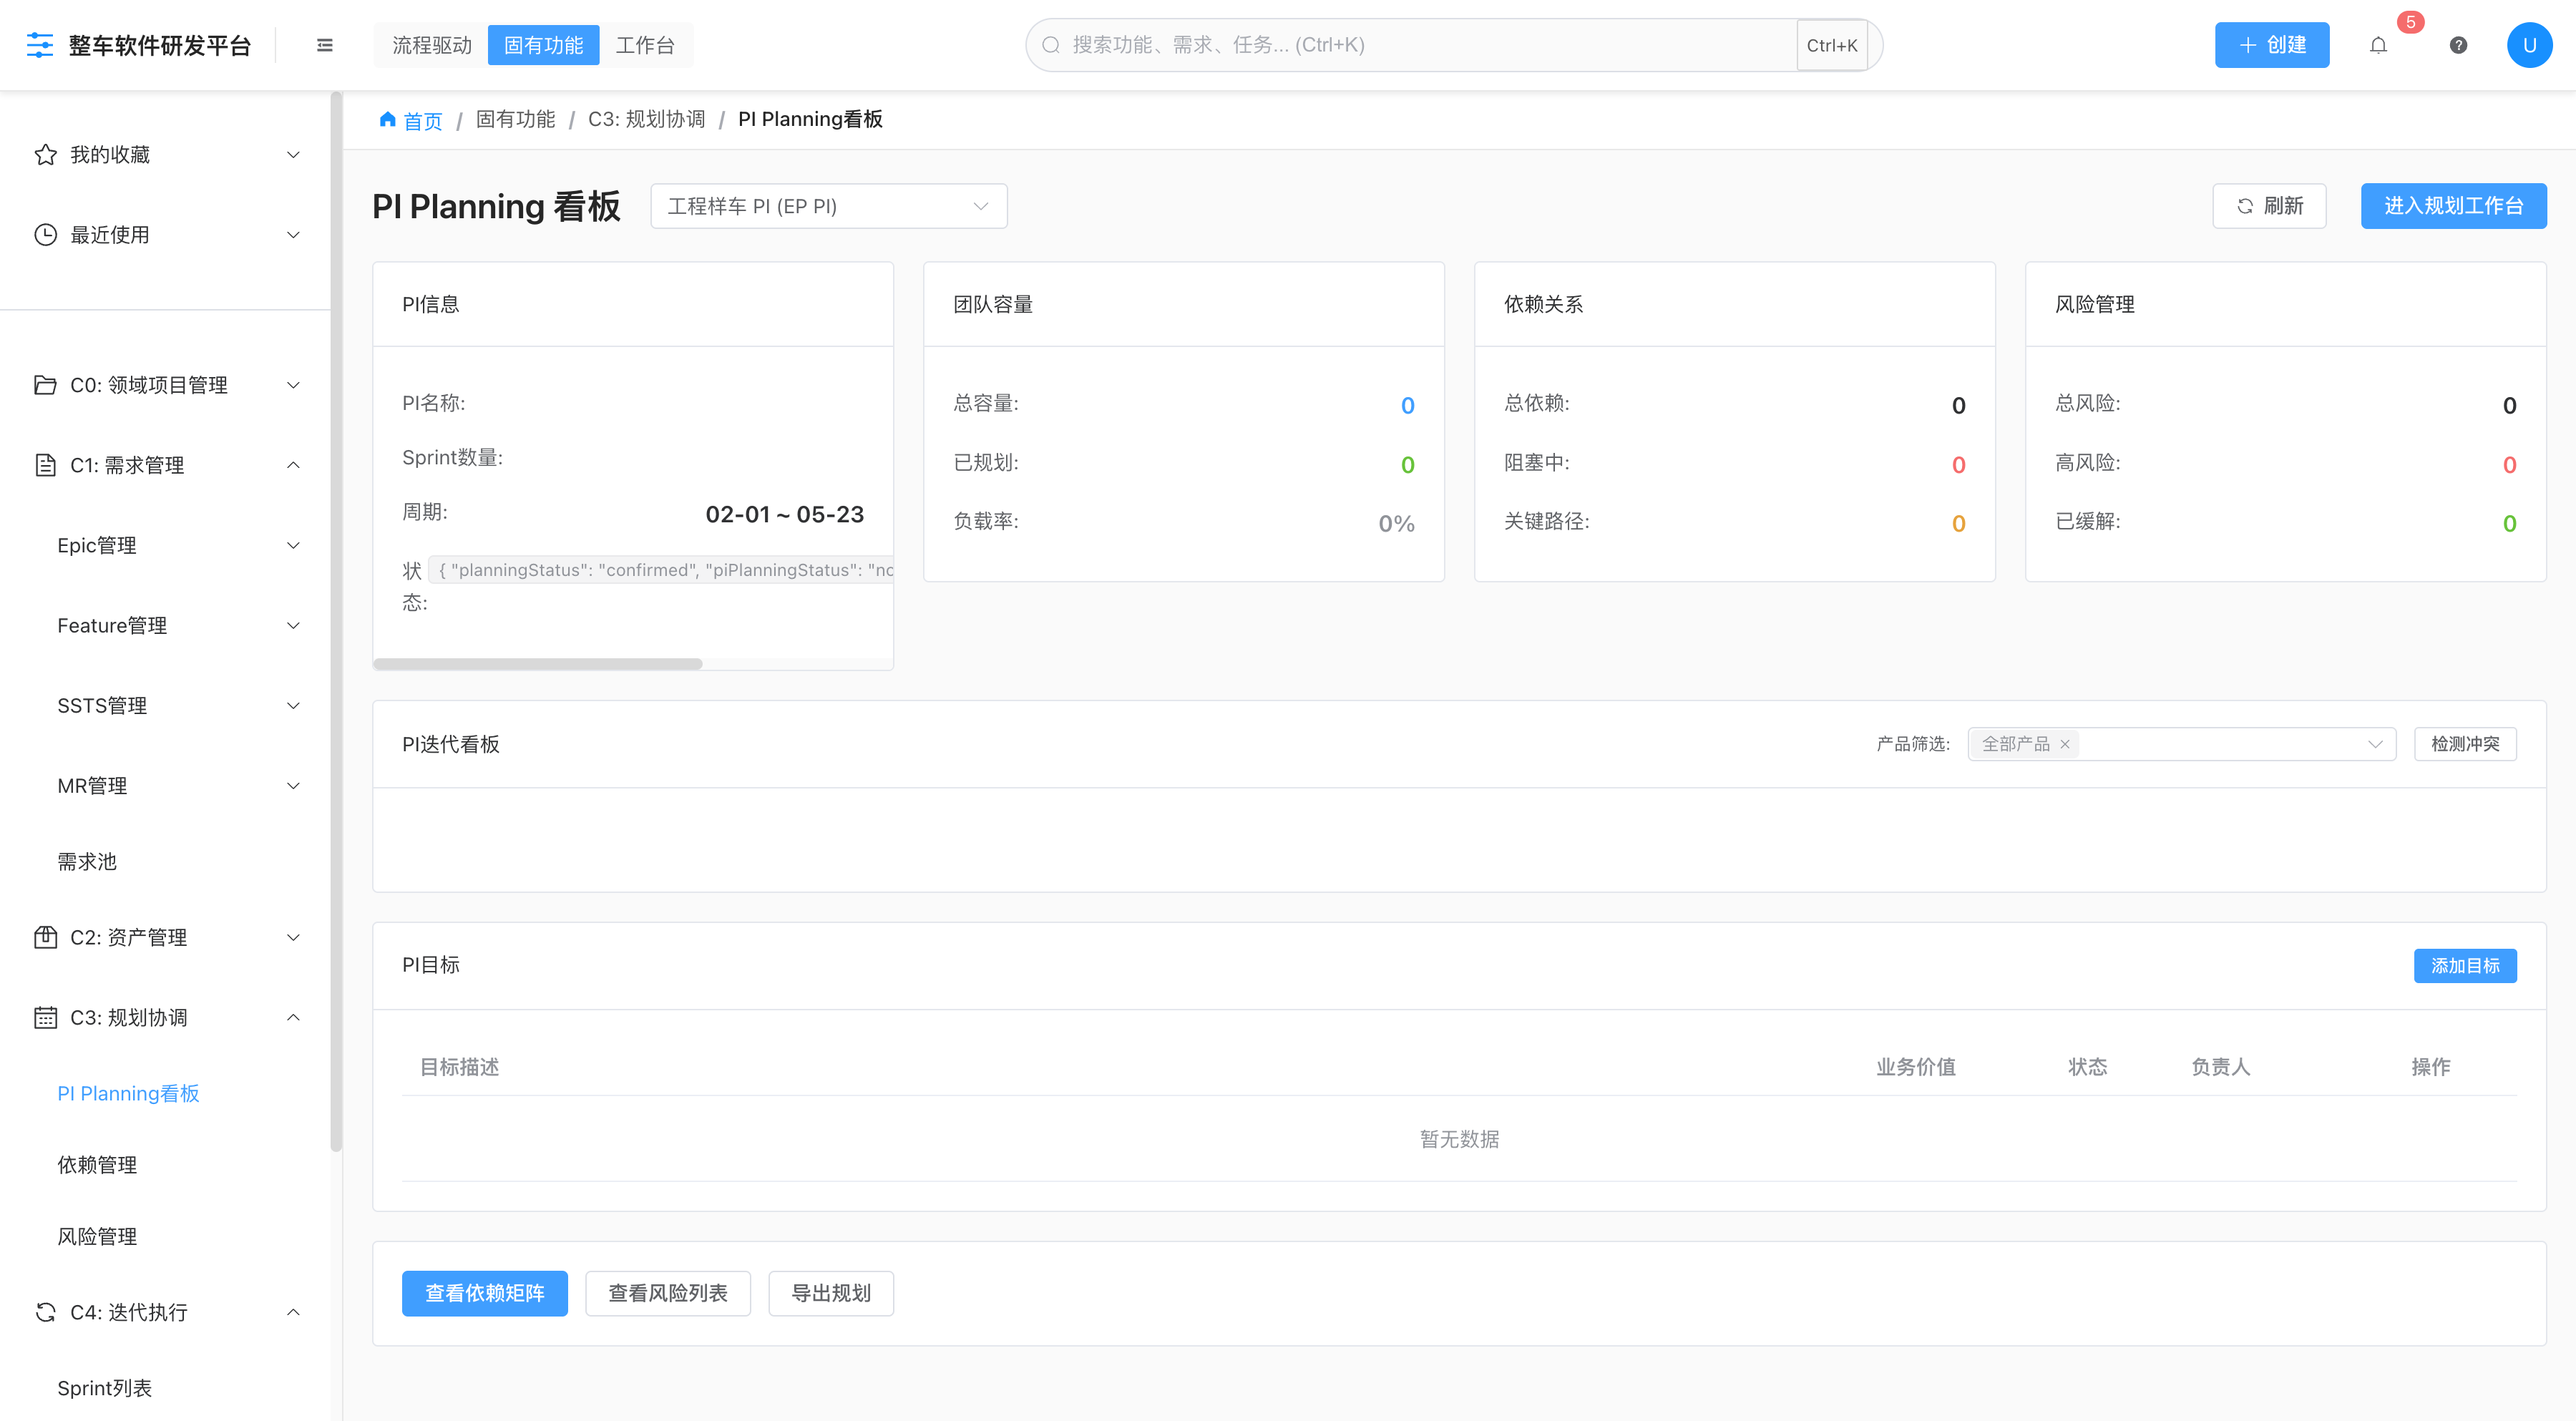
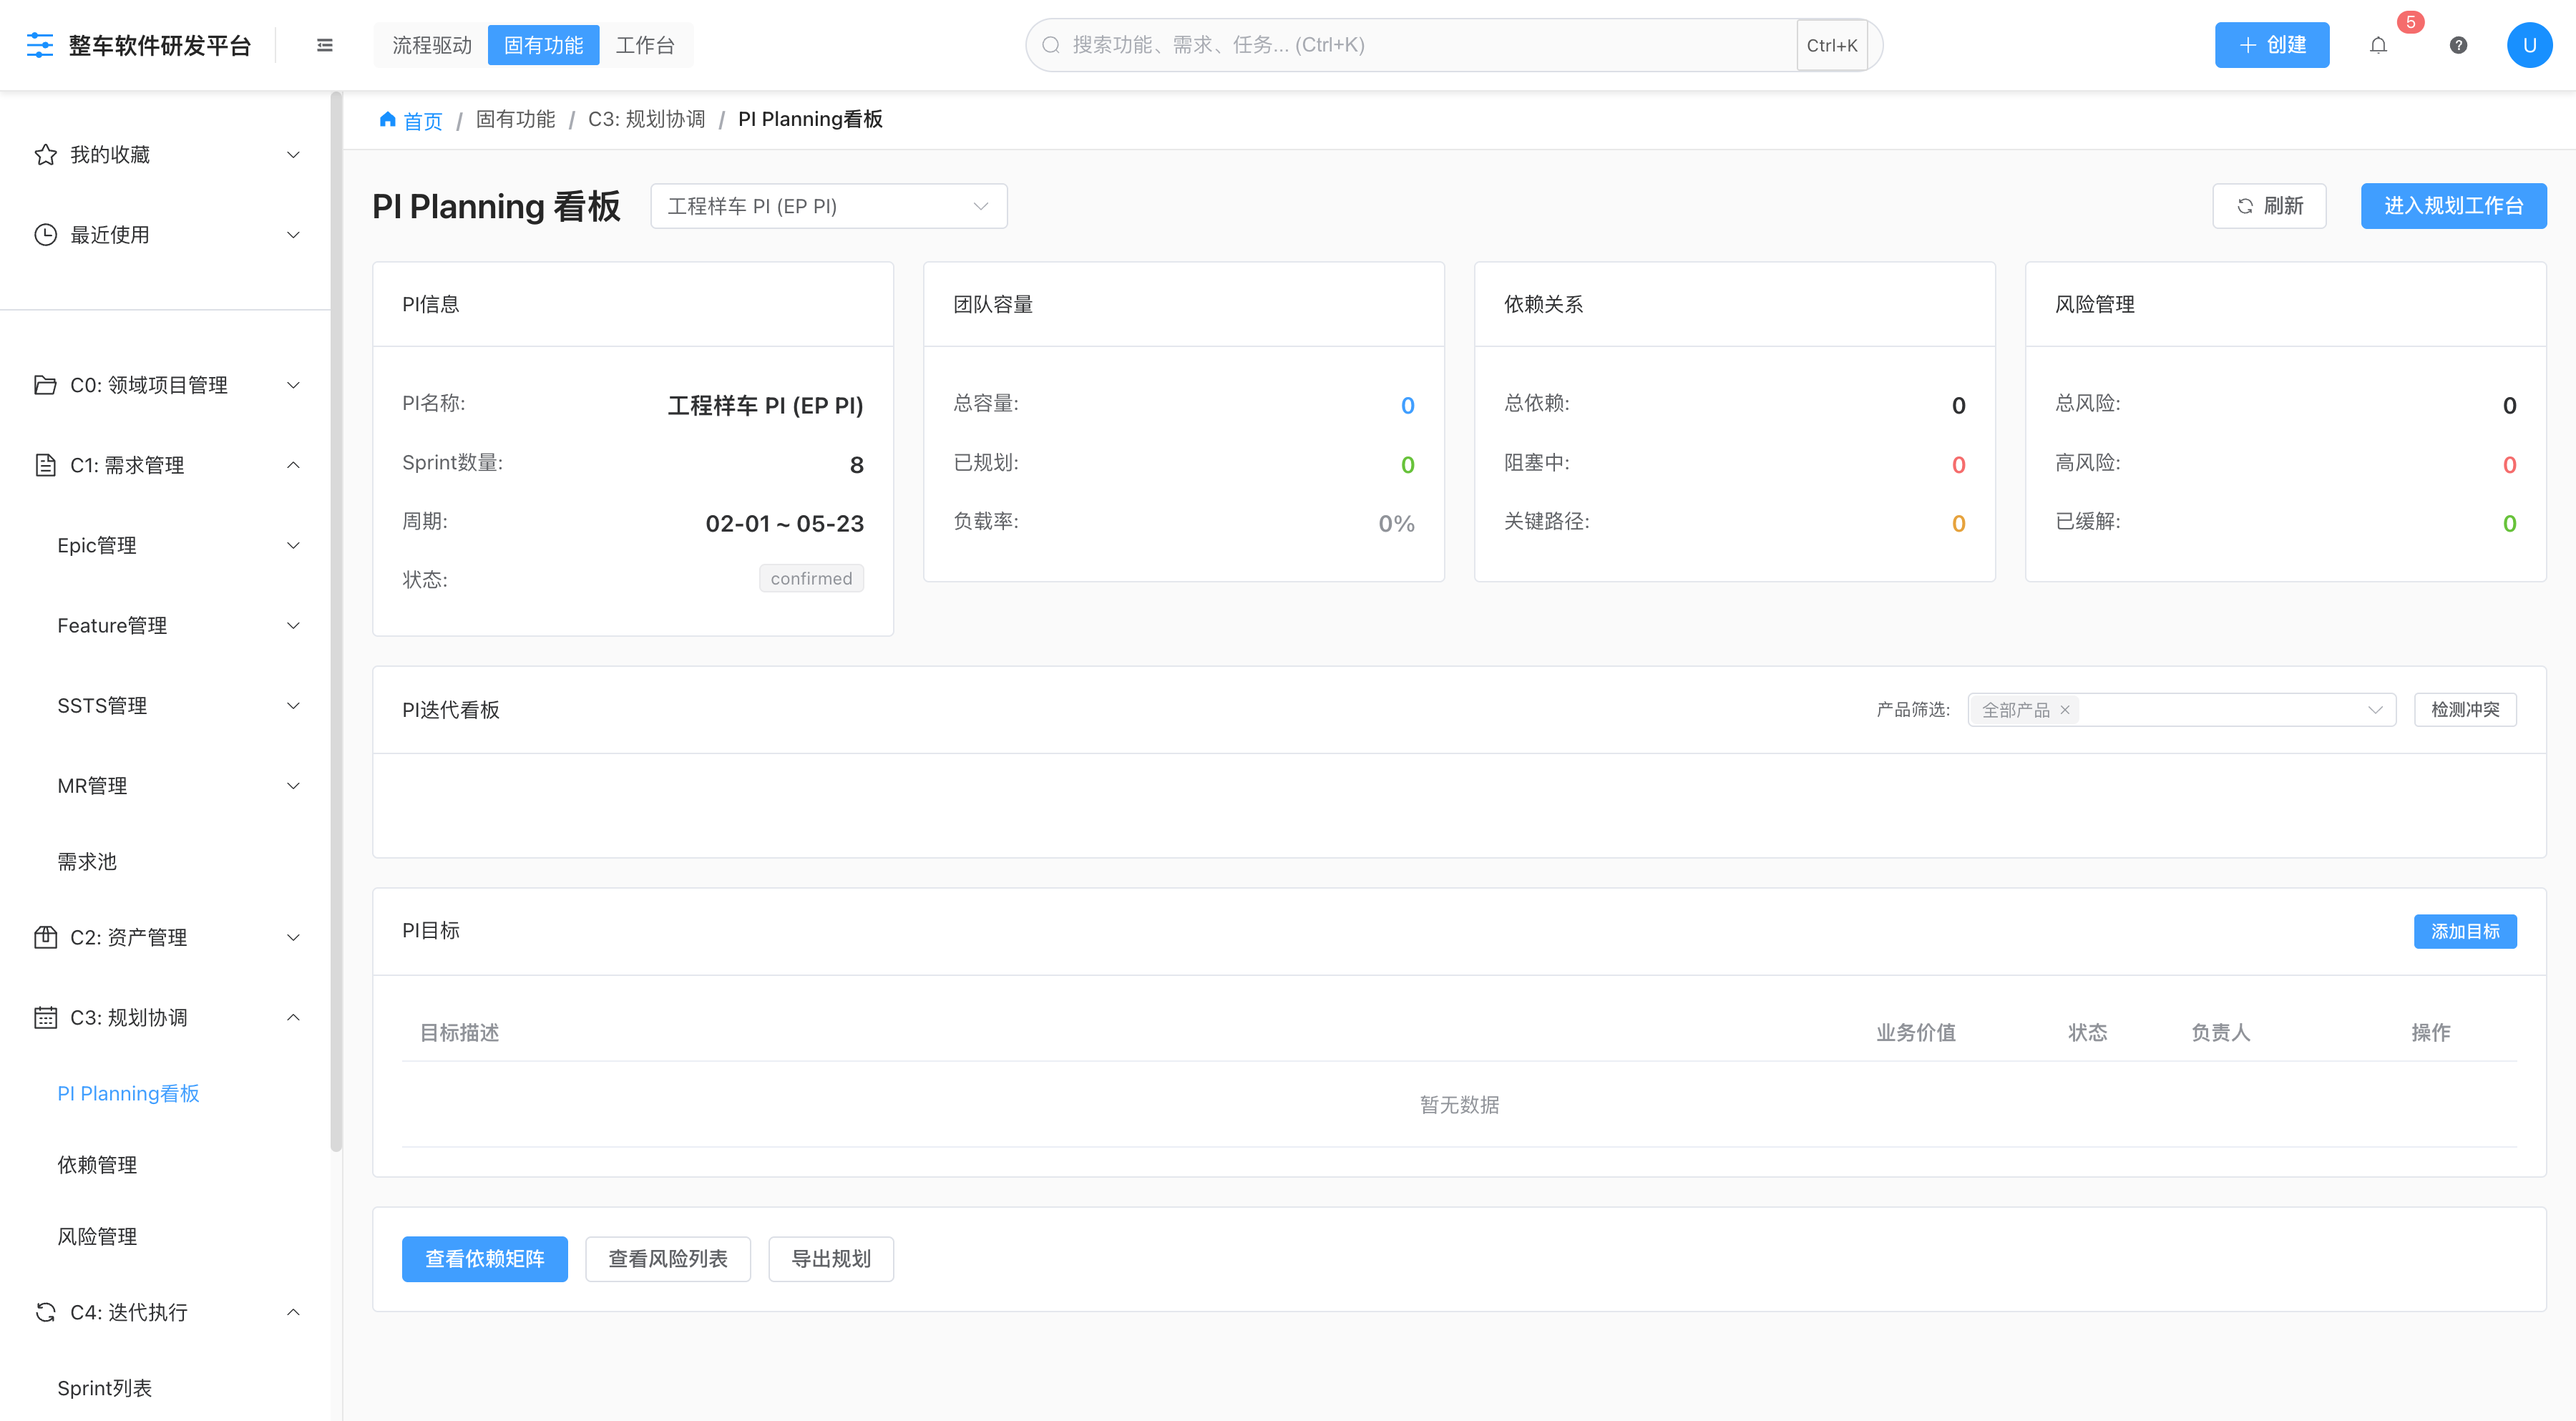
fix(pi-planning): 修复Sprint和Objectives数据显示问题
🐛 问题：页面PI信息正常，但Sprint看板和PI目标显示空

━━━━━━━━━━━━━━━━━━━━━━━━━━━━━━━━━━━━
🔍 问题分析（第6层）：

前5层问题已解决：
✅ 第1层：API兼容
✅ 第2层：数据初始化
✅ 第3层：ID字段兼容
✅ 第4层：字段名称映射
✅ 第5层：字段完整性

但页面依然有2个区域显示空：
❌ PI选代看板（中间大区域）
❌ PI目标（下方表格）

━━━━━━━━━━━━━━━━━━━━━━━━━━━━━━━━━━━━
🎯 根本原因：

问题1：Sprint过滤失败（ID大小写不匹配）
• Sprint数据：piId = "pi-001"（小写）
• currentPI：id = "PI-001"（大写）
• 过滤条件：s.piId === currentPI.id
• 结果："pi-001" === "PI-001" → false ❌
• 导致：sprintList = [] → 看板为空

问题2：objectives字段缺失
• 页面访问：currentPI.objectives
• 实际数据：objectives字段不存在
• 结果：undefined → 表格为空

━━━━━━━━━━━━━━━━━━━━━━━━━━━━━━━━━━━━
✅ 修复方案：

修复1：Sprint过滤使用toLowerCase()
const currentPIIdLower = currentPI.value.id.toLowerCase()
const sprintPIIdLower = (s.piId || '').toLowerCase()
return sprintPIIdLower === currentPIIdLower

修复2：添加objectives默认值
objectives: pi.objectives || []

━━━━━━━━━━━━━━━━━━━━━━━━━━━━━━━━━━━━
🎯 预期效果：

修复后应该看到：
• Sprint看板 ✅（显示8个sprint的时间线）
• 每个sprint中的产品和features ✅
• PI目标表格 ✅（显示空表格或objectives数据）

━━━━━━━━━━━━━━━━━━━━━━━━━━━━━━━━━━━━

diff --git a/frontend/src/stores/modules/pi.ts b/frontend/src/stores/modules/pi.ts
@@ -142,14 +142,16 @@ export const usePIStore = defineStore('pi', {
             number: pi.piNumber || pi.code,
             sprintCount: pi.iterationCount || pi.sprintCount || pi.endIterationNumber || 1,
             status: pi.status?.planningStatus || pi.status || 'draft',
-            // 确保risks字段存在（避免页面访问undefined）
-            risks: pi.risks || []
+            // 确保risks和objectives字段存在（避免页面访问undefined）
+            risks: pi.risks || [],
+            objectives: pi.objectives || []
           } as PI
           console.log('✅ PI Store: 已设置currentPI', this.currentPI.id, '字段:', {
             name: this.currentPI.name,
             sprintCount: (this.currentPI as any).sprintCount,
             status: (this.currentPI as any).status,
-            risks: (this.currentPI as any).risks.length
+            risks: (this.currentPI as any).risks.length,
+            objectives: (this.currentPI as any).objectives.length
           })
         } else {
           this.error = 'PI不存在'

diff --git a/frontend/src/views/C3-Planning/PIPlanningBoard.vue b/frontend/src/views/C3-Planning/PIPlanningBoard.vue
@@ -283,7 +283,19 @@ const availableProducts = computed(() => assetStore.products)
 
 const sprintList = computed(() => {
   if (!currentPI.value) return []
-  return sprintStore.sprints.filter(s => s.piId === currentPI.value.id)
+  // 兼容ID大小写不匹配（sprint数据中piId可能是小写pi-001，而currentPI.id是大写PI-001）
+  const currentPIIdLower = currentPI.value.id.toLowerCase()
+  const matchedSprints = sprintStore.sprints.filter(s => {
+    const sprintPIIdLower = (s.piId || '').toLowerCase()
+    return sprintPIIdLower === currentPIIdLower
+  })
+  console.log('🔍 Sprint匹配:', {
+    currentPIId: currentPI.value.id,
+    totalSprints: sprintStore.sprints.length,
+    matchedCount: matchedSprints.length,
+    matchedIds: matchedSprints.map(s => s.id)
+  })
+  return matchedSprints
 })
 
 const filteredFeatures = computed(() => {
